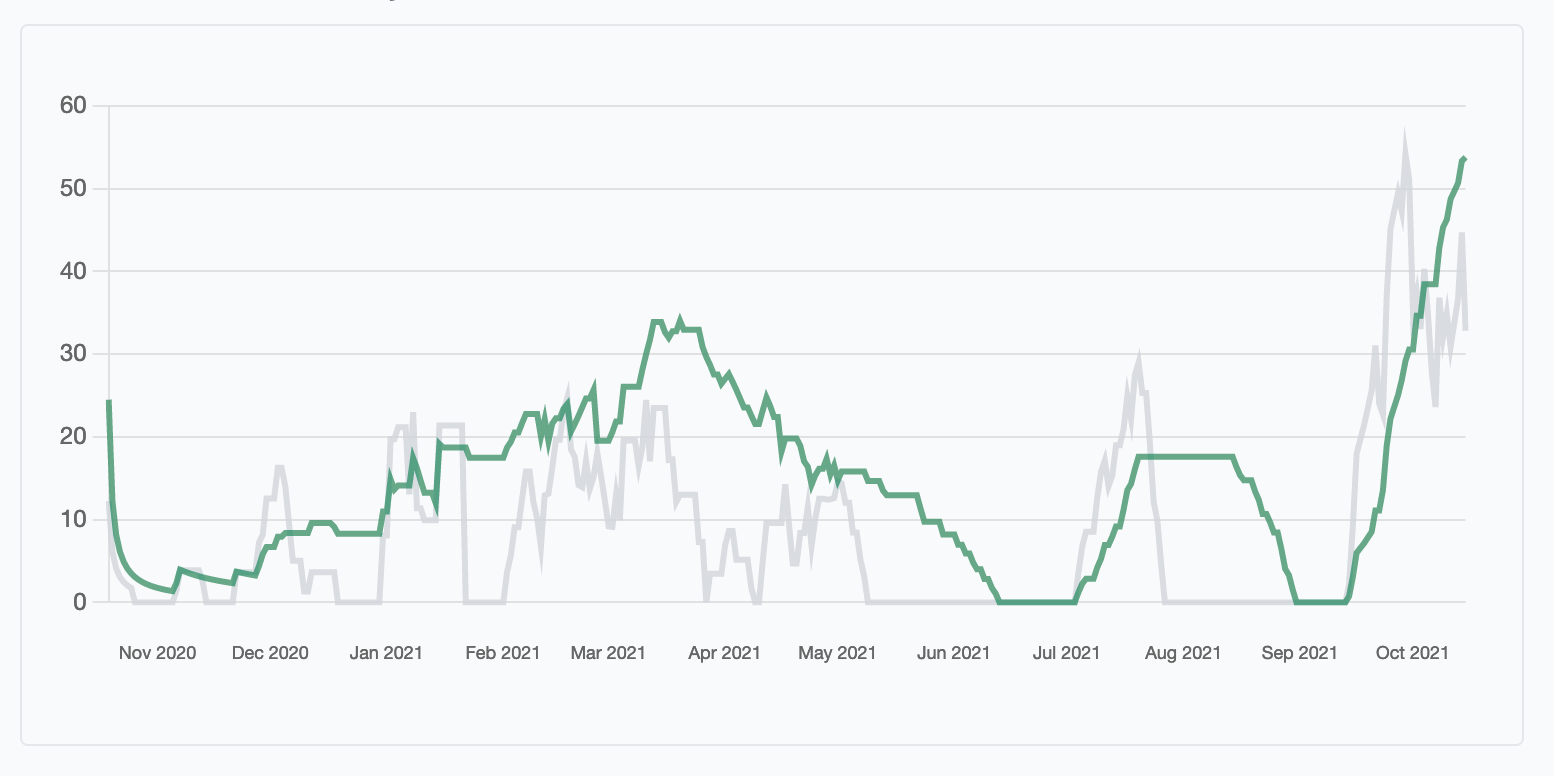
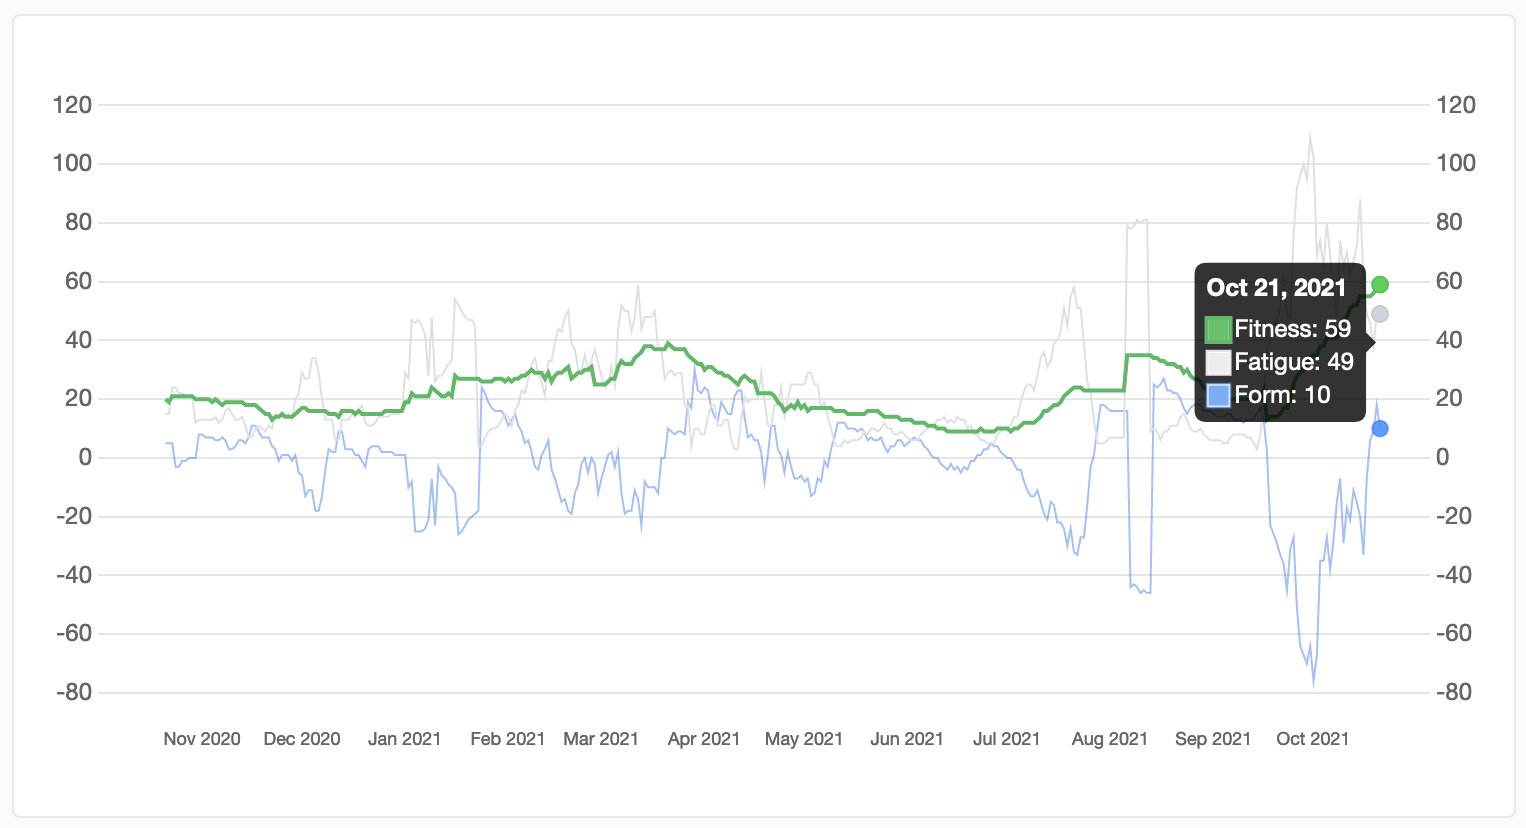
Update readme (#25)
* Add rss

* Update readme

* Update readme...

diff --git a/theme/templates/activity/route.html b/theme/templates/activity/route.html
@@ -1,4 +1,6 @@
-{% load static tailwind_tags %}
+{% load static %}
+{% load tailwind_tags %}
+{% load heroicons %}
 
 <!DOCTYPE html>
 <html lang="en">
@@ -19,6 +21,9 @@
   <body>
     <div id="map" class="fixed inset-0">
     </div>
+    <a class="fixed p-3 bg-white border rounded-full shadow transition hover:opacity-100 opacity-70 top-2 left-2" href="{% url "activity:detail" activity.id %}" title="Back to activity">
+      {% heroicon_outline "chevron-left" class="w-6 h-6" %}
+    </a>
     <script src="https://api.mapbox.com/mapbox-gl-js/v2.5.1/mapbox-gl.js"></script>
     <script src="https://api.mapbox.com/mapbox-gl-js/v2.5.1/mapbox-gl.js"></script>
     <script src="https://unpkg.com/@turf/turf@6/turf.min.js" /></script>

diff --git a/theme/templates/activity/rss.html b/theme/templates/activity/rss.html
@@ -1,7 +1,9 @@
 {% load static %}
 
-{% include "activity/_activity_desc.html" %}
+{% with obj as activity %}
+  {% include "activity/_activity_desc.html" %}
 
-{% if activity.start_location %}
-  <img src="https://{{ request.get_host }}{% get_media_prefix %}{{ activity.map }}" />
-{% endif %}
+  {% if activity.start_location %}
+    <img src="https://{{ request.get_host }}{% get_media_prefix %}{{ activity.map }}" />
+  {% endif %}
+{% endwith %}

diff --git a/theme/templates/activity/_activity_map.html b/theme/templates/activity/_activity_map.html
@@ -1,7 +1,7 @@
 {% load static %}
 
 {% if activity.start_location %}
-  <a href="{% url "activity:route" activity.id %}" class="text-link" target="new">
+  <a href="{% url "activity:route" activity.id %}" class="text-link" title="View 3D map">
     <img src="{% get_media_prefix %}{{ activity.map }}" class="rounded" />
   </a>
 {% endif %}

diff --git a/apps/page/views.py b/apps/page/views.py
@@ -8,7 +8,7 @@ from django.views.generic import TemplateView, View
 
 from apps.activity.models import Activity, Analytic
 
-GUEST_PAGE_SIZE = 3
+GUEST_PAGE_SIZE = 5
 OWNER_PAGE_SIZE = 10
 
 
@@ -64,11 +64,6 @@ class RssView(Feed):
 
     def get_object(self, request, username):
         return get_object_or_404(User, username=username)
-
-    def get_context_data(self, **kwargs):
-        context = super().get_context_data(**kwargs)
-        context["activity"] = context["obj"]
-        return context
 
     def items(self, obj):
         return Activity.objects.filter(

diff --git a/README.md b/README.md
@@ -8,12 +8,20 @@
 - [x] Fitness & fatigue performance chart
 - [x] Heart rate zones chart
 - [x] Interactive 3D route map
+- [x] Athlete RSS feed
 
 More about performance chart: https://github.com/manhtai/stramate/wiki/Training-load:-Fitness-&-Fatigue
 
 ## Notice
 
 You should host it yourself, don't give your data to arbitrary people on the internet, especially me.
+
+
+## Demo
+
+![Heat](./theme/static/img/heatmap.png)
+
+![Training](./theme/static/img/fitness.png)
 
 ## Local setup
 
